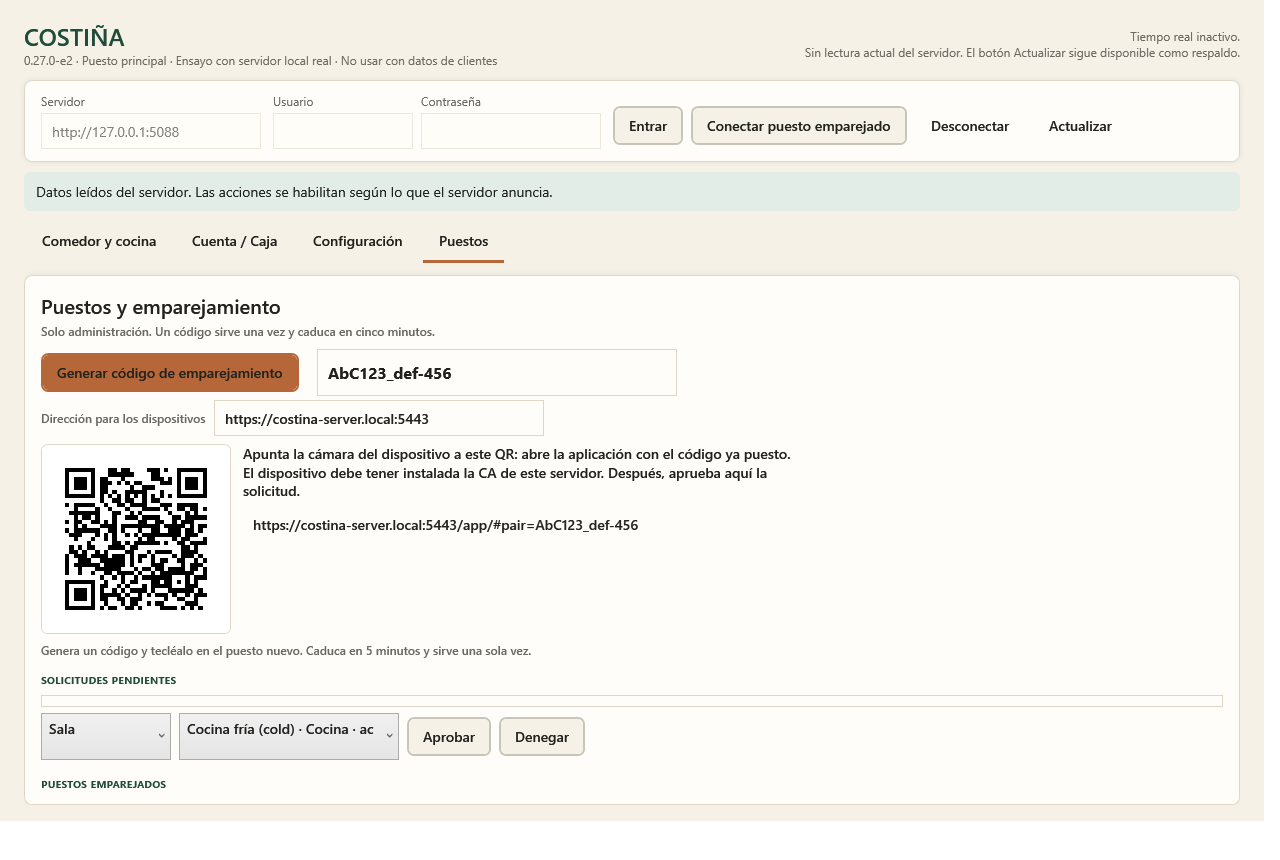
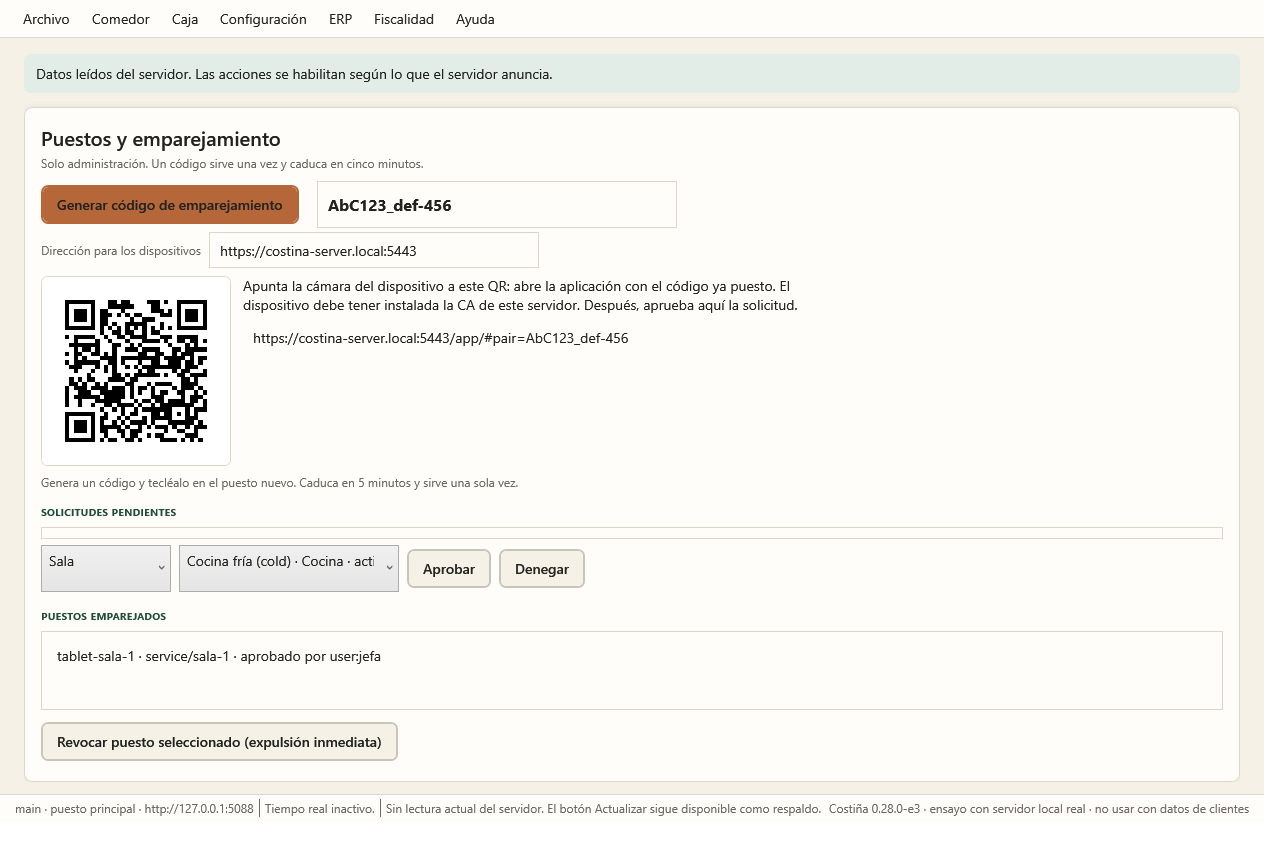
feat(desktop): barra de menus clasica (Archivo, Comedor, Caja, Configuracion, ERP, Fiscalidad, Ayuda), area de trabajo sin pestanas y barra de estado
Estructura definitiva del ERP de escritorio pedida por el promotor: el menu selecciona la vista del area de trabajo (el TabControl sigue como contenedor con plantilla de cabecera vacia); lo que aun no existe va deshabilitado con el corte en que llega; menus de rol solo con sesion de ese rol; F5 actualiza; Acerca de. Barra de estado con quien esta conectado (rol y servidor), tiempo real, hora de lectura y version. La tarjeta de entrada solo se muestra sin sesion. Cambiar la sesion refresca las propiedades derivadas. Checks del WPF: estructura del menu, ERP deshabilitado, menus ocultos sin sesion, cabeceras no pintadas, barra de estado; capturas actualizadas en docs/native/images/e2 (incluida la entrada).

diff --git a/dotnet/src/Costina.Desktop/MainWindow.xaml b/dotnet/src/Costina.Desktop/MainWindow.xaml
@@ -3,21 +3,63 @@
  Title="Costiña · Puesto principal" Width="1280" Height="860" MinWidth="1080" MinHeight="720" Background="{StaticResource Cream}" Closing="WindowClosing"
  FontFamily="Segoe UI Variable, Segoe UI" TextOptions.TextFormattingMode="Ideal" UseLayoutRounding="True">
 <Window.Resources><BooleanToVisibilityConverter x:Key="Bool2Vis"/><local:InvertedBool2Vis x:Key="NotBool2Vis"/></Window.Resources>
-<DockPanel Margin="24,20,24,16">
- <!-- Cabecera: identidad, version y conexion. -->
- <StackPanel DockPanel.Dock="Top">
-  <DockPanel Margin="0,0,0,12">
-   <StackPanel DockPanel.Dock="Right" VerticalAlignment="Center" HorizontalAlignment="Right">
-    <TextBlock Text="{Binding RealtimeState}" Style="{StaticResource Subtle}" TextAlignment="Right"/>
-    <TextBlock Text="{Binding ReadTime}" Style="{StaticResource Subtle}" TextAlignment="Right"/>
-   </StackPanel>
+<Window.InputBindings><KeyBinding Key="F5" Command="{Binding RefreshCommand}"/></Window.InputBindings>
+<DockPanel>
+ <!-- Barra de menus clasica de Windows: es la estructura DEFINITIVA del ERP. Lo que aun no existe va deshabilitado con su corte.
+      Cada entrada muestra una vista del area de trabajo (el TabControl de abajo, sin cabeceras). -->
+ <Menu x:Name="MainMenu" DockPanel.Dock="Top">
+  <MenuItem Header="_Archivo">
+   <MenuItem Header="Conectar puesto emparejado" Command="{Binding ConnectPairedCommand}"/>
+   <MenuItem Header="Actualizar" Command="{Binding RefreshCommand}" InputGestureText="F5"/>
+   <MenuItem Header="Desconectar" Command="{Binding DisconnectCommand}"/>
+   <Separator/>
+   <MenuItem Header="Salir" Click="ExitClick" InputGestureText="Alt+F4"/>
+  </MenuItem>
+  <MenuItem Header="_Comedor" x:Name="DiningMenu" IsEnabled="{Binding TabsEnabled}" Visibility="{Binding HasDining, Converter={StaticResource Bool2Vis}}">
+   <MenuItem Header="Comedor y cocina" Tag="ServiceTab" Click="ShowView"/>
+  </MenuItem>
+  <MenuItem Header="Ca_ja" x:Name="CheckoutMenu" IsEnabled="{Binding TabsEnabled}" Visibility="{Binding IsMain, Converter={StaticResource Bool2Vis}}">
+   <MenuItem Header="Cuenta / Caja" Tag="CheckoutTab" Click="ShowView"/>
+   <Separator/>
+   <MenuItem Header="Apertura y cierre de caja" IsEnabled="False" ToolTip="Llega en el Hito 7 (caja completa)" ToolTipService.ShowOnDisabled="True"/>
+   <MenuItem Header="Arqueo y turnos" IsEnabled="False" ToolTip="Llega en el Hito 7 (caja completa)" ToolTipService.ShowOnDisabled="True"/>
+  </MenuItem>
+  <MenuItem Header="C_onfiguración" x:Name="ConfigurationMenu" IsEnabled="{Binding TabsEnabled}" Visibility="{Binding IsMain, Converter={StaticResource Bool2Vis}}">
+   <MenuItem Header="Salas, mesas y estaciones" Tag="OrganizationTab" Click="ShowView"/>
+   <MenuItem Header="Puestos y emparejamiento" Tag="DevicesTab" Click="ShowView"/>
+   <Separator/>
+   <MenuItem Header="Usuarios y permisos" IsEnabled="False" ToolTip="Llega en E5 (Hito 6)" ToolTipService.ShowOnDisabled="True"/>
+   <MenuItem Header="Módulos de la instalación" IsEnabled="False" ToolTip="Llega en E5 (Hito 6)" ToolTipService.ShowOnDisabled="True"/>
+  </MenuItem>
+  <MenuItem Header="_ERP" x:Name="ErpMenu" IsEnabled="{Binding TabsEnabled}" Visibility="{Binding IsMain, Converter={StaticResource Bool2Vis}}">
+   <MenuItem Header="Catálogo y tarifas" IsEnabled="False" ToolTip="Llega en E3 (Hito 6)" ToolTipService.ShowOnDisabled="True"/>
+   <MenuItem Header="Menús y pases" IsEnabled="False" ToolTip="Llega en E4 (Hito 6)" ToolTipService.ShowOnDisabled="True"/>
+   <MenuItem Header="Informes" IsEnabled="False" ToolTip="Tras el Hito 7" ToolTipService.ShowOnDisabled="True"/>
+   <MenuItem Header="Stock, proveedores y compras" IsEnabled="False" ToolTip="Módulos posteriores" ToolTipService.ShowOnDisabled="True"/>
+  </MenuItem>
+  <MenuItem Header="_Fiscalidad" x:Name="FiscalMenu" IsEnabled="{Binding TabsEnabled}" Visibility="{Binding IsMain, Converter={StaticResource Bool2Vis}}">
+   <MenuItem Header="Series y facturas" IsEnabled="False" ToolTip="Llega en el Hito 8 (fiscal)" ToolTipService.ShowOnDisabled="True"/>
+   <MenuItem Header="VERI*FACTU" IsEnabled="False" ToolTip="Llega en el Hito 8 (fiscal)" ToolTipService.ShowOnDisabled="True"/>
+  </MenuItem>
+  <MenuItem Header="Ay_uda">
+   <MenuItem Header="Acerca de Costiña" Click="AboutClick"/>
+  </MenuItem>
+ </Menu>
+ <!-- Barra de estado: quien esta conectado y contra que servidor, tiempo real y hora de la ultima lectura autoritativa. -->
+ <StatusBar x:Name="MainStatusBar" DockPanel.Dock="Bottom">
+  <StatusBarItem><TextBlock Text="{Binding ConnectionText}" Style="{StaticResource Subtle}"/></StatusBarItem>
+  <Separator/>
+  <StatusBarItem><TextBlock Text="{Binding RealtimeState}" Style="{StaticResource Subtle}"/></StatusBarItem>
+  <Separator/>
+  <StatusBarItem><TextBlock Text="{Binding ReadTime}" Style="{StaticResource Subtle}"/></StatusBarItem>
+  <StatusBarItem HorizontalAlignment="Right"><TextBlock Text="Costiña 0.28.0-e3 · ensayo con servidor local real · no usar con datos de clientes" Style="{StaticResource Subtle}"/></StatusBarItem>
+ </StatusBar>
+ <StackPanel DockPanel.Dock="Top" Margin="24,16,24,0">
+  <!-- Conexion: solo mientras no hay sesion. Despues, todo va por el menu Archivo. -->
+  <Border Style="{StaticResource Card}" Margin="0,0,0,10" Padding="16,12" Visibility="{Binding Connected, Converter={StaticResource NotBool2Vis}}">
    <StackPanel>
     <TextBlock Text="COSTIÑA" Style="{StaticResource AppTitle}"/>
-    <TextBlock Text="0.28.0-e3 · Puesto principal · Ensayo con servidor local real · No usar con datos de clientes" Style="{StaticResource Subtle}"/>
-   </StackPanel>
-  </DockPanel>
-  <Border Style="{StaticResource Card}" Margin="0,0,0,10" Padding="16,12">
-   <StackPanel>
+    <TextBlock Text="Entra con tu usuario y contraseña, o conecta este puesto emparejado. La contraseña no se guarda en disco." Style="{StaticResource Subtle}" Margin="0,2,0,10"/>
     <WrapPanel VerticalAlignment="Bottom">
      <StackPanel Margin="0,0,12,0"><TextBlock Text="Servidor" Style="{StaticResource FieldLabel}"/><TextBox x:Name="Endpoint" Text="{Binding Endpoint, UpdateSourceTrigger=PropertyChanged}" IsEnabled="{Binding ConnectEnabled}" Width="220"/></StackPanel>
      <StackPanel Margin="0,0,8,0"><TextBlock Text="Usuario" Style="{StaticResource FieldLabel}"/><TextBox Text="{Binding Username, UpdateSourceTrigger=PropertyChanged}" IsEnabled="{Binding ConnectEnabled}" Width="140"/></StackPanel>
@@ -29,7 +71,7 @@
     </WrapPanel>
     <WrapPanel Margin="0,6,0,0" Visibility="{Binding ConnectEnabled, Converter={StaticResource Bool2Vis}}">
      <TextBlock Text="Emparejar este puesto:" VerticalAlignment="Center" Margin="0,0,8,0" Style="{StaticResource Subtle}"/>
-     <TextBox x:Name="PairCode" Width="330" ToolTip="Código de un solo uso generado por el administrador (pestaña Puestos del PC principal)"/>
+     <TextBox x:Name="PairCode" Width="330" ToolTip="Código de un solo uso generado por el administrador (Configuración › Puestos del PC principal)"/>
      <TextBox Text="{Binding PairName, UpdateSourceTrigger=PropertyChanged}" Width="150" Margin="8,0,8,0" ToolTip="Nombre de este puesto (p. ej. tablet-sala-1)"/>
      <Button Content="Solicitar emparejamiento" Command="{Binding PairDeviceCommand}" CommandParameter="{Binding Text, ElementName=PairCode}"/>
      <TextBlock Text="{Binding PairingStatus}" VerticalAlignment="Center" Margin="10,0,0,0" FontWeight="SemiBold"/>
@@ -49,10 +91,12 @@
    <TextBlock Text="{Binding BlockedText}" TextWrapping="Wrap" VerticalAlignment="Center"/>
   </DockPanel></Border>
  </StackPanel>
- <TabControl x:Name="Tabs" IsEnabled="{Binding TabsEnabled}" SelectionChanged="TabChanged">
+ <!-- Area de trabajo: una vista por entrada de menu. Las cabeceras de pestana no se pintan (plantilla vacia). -->
+ <TabControl x:Name="Tabs" IsEnabled="{Binding TabsEnabled}" SelectionChanged="TabChanged" Margin="24,0,24,12">
+  <TabControl.ItemContainerStyle><Style TargetType="TabItem"><Setter Property="Template"><Setter.Value><ControlTemplate TargetType="TabItem"/></Setter.Value></Setter></Style></TabControl.ItemContainerStyle>
   <!-- ═══════════════ Comedor y cocina (modulo Dining) ═══════════════ -->
   <TabItem Header="Comedor y cocina" x:Name="ServiceTab" Visibility="{Binding HasDining, Converter={StaticResource Bool2Vis}}">
-   <Grid Margin="0,12,0,0"><Grid.ColumnDefinitions><ColumnDefinition Width="270"/><ColumnDefinition Width="16"/><ColumnDefinition Width="*"/></Grid.ColumnDefinitions>
+   <Grid Margin="0,4,0,0"><Grid.ColumnDefinitions><ColumnDefinition Width="270"/><ColumnDefinition Width="16"/><ColumnDefinition Width="*"/></Grid.ColumnDefinitions>
     <Border Grid.Column="0" Style="{StaticResource Card}">
      <DockPanel>
       <StackPanel DockPanel.Dock="Top" Visibility="{Binding CanOpen, Converter={StaticResource Bool2Vis}}">
@@ -128,7 +172,7 @@
   </TabItem>
   <!-- ═══════════════ Cuenta / Caja (nucleo, solo main) ═══════════════ -->
   <TabItem Header="Cuenta / Caja" x:Name="CheckoutTab" Visibility="{Binding IsMain, Converter={StaticResource Bool2Vis}}">
-   <Border Style="{StaticResource Card}" Margin="0,12,0,0">
+   <Border Style="{StaticResource Card}" Margin="0,4,0,0">
     <DockPanel>
      <StackPanel DockPanel.Dock="Top">
       <TextBlock Text="Cuenta / Caja" Style="{StaticResource PanelTitle}"/>
@@ -161,7 +205,7 @@
   </TabItem>
   <!-- ═══════════════ Configuracion (nucleo, E2, solo main) ═══════════════ -->
   <TabItem Header="Configuración" x:Name="OrganizationTab" Visibility="{Binding IsMain, Converter={StaticResource Bool2Vis}}">
-   <Grid Margin="0,12,0,0"><Grid.RowDefinitions><RowDefinition Height="Auto"/><RowDefinition Height="*"/></Grid.RowDefinitions>
+   <Grid Margin="0,4,0,0"><Grid.RowDefinitions><RowDefinition Height="Auto"/><RowDefinition Height="*"/></Grid.RowDefinitions>
     <StackPanel Grid.Row="0" Margin="0,0,0,10">
      <TextBlock Text="Configuración del negocio" Style="{StaticResource PanelTitle}"/>
      <TextBlock Text="{Binding Organization.Summary}" Style="{StaticResource Subtle}" Margin="0,4,0,0"/>
@@ -232,7 +276,7 @@
   </TabItem>
   <!-- ═══════════════ Puestos (nucleo, solo main) ═══════════════ -->
   <TabItem Header="Puestos" x:Name="DevicesTab" Visibility="{Binding IsMain, Converter={StaticResource Bool2Vis}}">
-   <Border Style="{StaticResource Card}" Margin="0,12,0,0">
+   <Border Style="{StaticResource Card}" Margin="0,4,0,0">
     <DockPanel>
      <StackPanel DockPanel.Dock="Top">
       <TextBlock Text="Puestos y emparejamiento" Style="{StaticResource PanelTitle}"/>

diff --git a/dotnet/src/Costina.Desktop/Theme.xaml b/dotnet/src/Costina.Desktop/Theme.xaml
@@ -141,6 +141,18 @@
   <Setter Property="Background" Value="{StaticResource ForestSoft}"/><Setter Property="Foreground" Value="{StaticResource Forest}"/><Setter Property="FontWeight" Value="SemiBold"/>
   <Setter Property="Padding" Value="10,8"/><Setter Property="BorderBrush" Value="{StaticResource Line}"/><Setter Property="BorderThickness" Value="0,0,0,1"/>
  </Style>
+ <!-- Barra de menus y barra de estado clasicas (E2): fondo papel, linea inferior/superior, tipografia del tema. -->
+ <Style TargetType="Menu">
+  <Setter Property="Background" Value="{StaticResource Paper}"/><Setter Property="BorderBrush" Value="{StaticResource Line}"/><Setter Property="BorderThickness" Value="0,0,0,1"/>
+  <Setter Property="Padding" Value="12,2"/><Setter Property="FontSize" Value="14"/><Setter Property="Foreground" Value="{StaticResource Ink}"/>
+ </Style>
+ <Style TargetType="MenuItem">
+  <Setter Property="Padding" Value="10,6"/><Setter Property="FontSize" Value="14"/><Setter Property="Foreground" Value="{StaticResource Ink}"/>
+ </Style>
+ <Style TargetType="StatusBar">
+  <Setter Property="Background" Value="{StaticResource Paper}"/><Setter Property="BorderBrush" Value="{StaticResource Line}"/><Setter Property="BorderThickness" Value="0,1,0,0"/>
+  <Setter Property="Padding" Value="12,2"/><Setter Property="FontSize" Value="12"/>
+ </Style>
  <Style TargetType="TabControl">
   <Setter Property="Background" Value="Transparent"/><Setter Property="BorderThickness" Value="0"/><Setter Property="Padding" Value="0"/>
  </Style>

diff --git a/dotnet/tests/Costina.DesktopChecks/Program.cs b/dotnet/tests/Costina.DesktopChecks/Program.cs
@@ -15,6 +15,13 @@ internal static class Program
         if(!((Button)window.FindName("ConnectButton")).IsEnabled) throw new Exception("Connection button must be available.");
         if(((TabItem)window.FindName("CheckoutTab")).Visibility!=Visibility.Collapsed) throw new Exception("Checkout visible without authenticated role.");
         if(((TabItem)window.FindName("OrganizationTab")).Visibility!=Visibility.Collapsed) throw new Exception("Configuration visible without authenticated role.");   // E2
+        // E2: barra de menus clasica. Estructura definitiva; lo que no existe va deshabilitado; sin cabeceras de pestana.
+        var menu=(Menu)window.FindName("MainMenu");
+        var headers=menu.Items.OfType<MenuItem>().Select(m=>m.Header?.ToString()?.Replace("_","")).ToArray();
+        if(!headers.SequenceEqual(new[]{"Archivo","Comedor","Caja","Configuración","ERP","Fiscalidad","Ayuda"})) throw new Exception("Menu bar structure: "+string.Join(",",headers));
+        if(((MenuItem)window.FindName("ErpMenu")).Items.OfType<MenuItem>().Any(m=>m.IsEnabled)) throw new Exception("ERP entries that do not exist yet must be disabled.");
+        if(((MenuItem)window.FindName("ConfigurationMenu")).Visibility!=Visibility.Collapsed||((MenuItem)window.FindName("DiningMenu")).Visibility!=Visibility.Collapsed) throw new Exception("Role menus are hidden without a session.");
+        if(((TabItem)window.FindName("ServiceTab")).ActualHeight!=0) throw new Exception("Tab headers must not be painted: the menu selects the view.");
         if(((TabControl)window.FindName("Tabs")).IsEnabled) throw new Exception("Unauthenticated operations enabled.");
         // D3.1: la habilitacion es un mapeo puro de las affordances del servidor, sin reglas locales.
         // D3.4 (F01): ademas, solo hay contexto accionable cuando la fila seleccionada coincide con la entidad leida.
@@ -139,6 +146,9 @@ internal static class Program
         window.Shell.Session=new("service","t","c","l",["open"],"inst-checks","0.7.0-d3.4",Modules:["dining"]);
         if(organization.SaveZoneCommand.CanExecute(null)||organization.StartStationCommand.CanExecute(null)) throw new Exception("Only the main desk edits the organization.");
         window.Shell.Session=new("main","t","c","l",["open"],"inst-checks","0.7.0-d3.4",Modules:["dining"]);
+        window.UpdateLayout();
+        if(((MenuItem)window.FindName("ConfigurationMenu")).Visibility!=Visibility.Visible||((MenuItem)window.FindName("FiscalMenu")).Visibility!=Visibility.Visible) throw new Exception("The main desk sees every menu.");
+        if(!window.Shell.ConnectionText.Contains("puesto principal")) throw new Exception("The status bar states who is connected.");
         if(organization.SelectedZone?.Id!="sala"||organization.ZoneName!="Sala"||organization.Tables.Length!=3) throw new Exception("Rendering must select the first zone and fill its form and tables.");
         if(!organization.SaveZoneCommand.CanExecute(null)||!organization.ToggleZoneCommand.CanExecute(null)) throw new Exception("A selected zone is editable by the main desk.");
         organization.SelectedTable=organization.Tables[2];

diff --git a/dotnet/src/Costina.Desktop/ViewModels/ShellViewModel.cs b/dotnet/src/Costina.Desktop/ViewModels/ShellViewModel.cs
@@ -35,6 +35,8 @@ public sealed partial class ShellViewModel : ObservableObject
 
     public ShellViewModel() { Service = new(this); Checkout = new(this); Devices = new(this); Organization = new(this); }
 
+    // Cambiar la sesion (conectar, desconectar, otro rol) refresca todas las propiedades derivadas que enlazan menus y vistas.
+    partial void OnSessionChanged(SessionInfo? value) => Sync();
     public bool Connected => Session is not null;
     public bool IsMain => Session?.Role == "main";
     // ADR-012: la pestana de comedor y cocina existe solo si el modulo Dining esta activo en la instalacion.
@@ -45,6 +47,8 @@ public sealed partial class ShellViewModel : ObservableObject
     public bool HasBlocked => Blocked is not null;
     public bool CanOpen => Session?.Actions?.Contains("open") == true;
     public bool TabsEnabled => Connected && !Busy;
+    // Barra de estado: quien esta conectado, con que rol y contra que servidor (nunca credenciales).
+    public string ConnectionText => Session is null ? "Sin conexión" : $"{Session.Actor ?? Session.Role} · {Session.Role switch { "main" => "puesto principal", "service" => "sala", "kitchen" => "cocina", var r => r }} · {Endpoint}" + (Session.Demo ? " · DEMO" : "");
     // Perfil de pantalla (UX, no autorizacion): el servidor sigue decidiendo cada accion.
     public bool IsKitchen => Session?.Role is "main" or "kitchen";
     public string PendingText => Pending is null ? "" :
@@ -63,7 +67,7 @@ public sealed partial class ShellViewModel : ObservableObject
         OnPropertyChanged(nameof(Writable)); OnPropertyChanged(nameof(HasPending));
         OnPropertyChanged(nameof(HasBlocked)); OnPropertyChanged(nameof(BlockedText));
         OnPropertyChanged(nameof(CanOpen)); OnPropertyChanged(nameof(PendingText));
-        OnPropertyChanged(nameof(ConnectEnabled)); OnPropertyChanged(nameof(TabsEnabled));
+        OnPropertyChanged(nameof(ConnectEnabled)); OnPropertyChanged(nameof(TabsEnabled)); OnPropertyChanged(nameof(ConnectionText));
         OnPropertyChanged(nameof(IsKitchen)); OnPropertyChanged(nameof(HasPairedDevice));
         ConnectPairedCommand.NotifyCanExecuteChanged(); PairDeviceCommand.NotifyCanExecuteChanged();
         DisconnectCommand.NotifyCanExecuteChanged();

diff --git a/dotnet/src/Costina.Desktop/MainWindow.xaml.cs b/dotnet/src/Costina.Desktop/MainWindow.xaml.cs
@@ -23,7 +23,28 @@ public partial class MainWindow : Window
     // Los checks del WPF componen la ventana con datos leidos (sin servidor) para renderizarla y capturarla.
     public ShellViewModel Shell => shell;
 
-    public MainWindow() { InitializeComponent(); DataContext = shell; }
+    public MainWindow()
+    {
+        InitializeComponent(); DataContext = shell;
+        // Al conectar (o cambiar de rol) el area de trabajo muestra la primera vista que ese rol puede ver.
+        shell.PropertyChanged += (_, e) => { if (e.PropertyName == nameof(ShellViewModel.Session)) SelectFirstVisibleView(); };
+    }
+
+    internal void SelectFirstVisibleView()
+    {
+        if (Tabs.SelectedItem is TabItem current && current.Visibility == Visibility.Visible) return;
+        Tabs.SelectedItem = Tabs.Items.OfType<TabItem>().FirstOrDefault(t => t.Visibility == Visibility.Visible);
+    }
+
+    // Menu: cada entrada selecciona una vista del area de trabajo por su nombre (Tag).
+    private void ShowView(object sender, RoutedEventArgs e)
+    {
+        if (sender is MenuItem { Tag: string name } && FindName(name) is TabItem view) Tabs.SelectedItem = view;
+    }
+    private void ExitClick(object sender, RoutedEventArgs e) => Close();
+    private void AboutClick(object sender, RoutedEventArgs e) => MessageBox.Show(this,
+        $"Costiña · puesto principal\nVersión {typeof(MainWindow).Assembly.GetName().Version?.ToString(3)}\n\nServidor: {shell.Endpoint}\n{shell.ConnectionText}",
+        "Acerca de Costiña", MessageBoxButton.OK, MessageBoxImage.Information);
 
     private async void ConnectClick(object sender, RoutedEventArgs e)
     {

diff --git a/docs/native/E2-organization.md b/docs/native/E2-organization.md
@@ -10,11 +10,11 @@ Fecha: 2026-09-22. Rama `feat/e2-organization` sobre E1b (`feat/e1b-schema-per-m
 
 **API** (núcleo, solo `main`): `GET /api/native/v1/organization` (salas con sus mesas, activas e inactivas marcadas, y estaciones) y `POST /api/native/v1/organization/commands/{action}` con `zone|table|station` × `create|update|deactivate|reactivate`, cuerpo `{id, name, capacity, zoneId, sort, kind}`; misma tubería (idempotencia, auditoría `organization.*`, outbox). Sin versión esperada: datos maestros, última edición gana; el cliente relee tras cada comando. `GET /configuration.tables` sigue para todos los roles con las mesas **activas** y añade `zoneId` y `zoneName` (campos anteriores intactos).
 
-**Puesto principal (WPF)**: pestaña **Configuración** con "Salas", "Mesas de la sala" y "Estaciones" en patrón lista + ficha (código fijo, nombre, aforo, orden, sala o tipo; "Guardar", "Desactivar / reactivar"; estados vacíos explicados). En **Puestos**, la estación se elige de las activas. **Tema visual** (`Theme.xaml`, único diccionario de la aplicación): verde bosque, crema y cobre; rojo solo para alergias y acciones irreversibles; ámbar para avisos; tipografía Segoe UI Variable; tarjetas, chips de estado con texto, botones principal/secundario/peligro/fantasma; aplicado también a Comedor y cocina, Cuenta / Caja y Puestos. Los avisos de alergia siguen con texto siempre.
+**Puesto principal (WPF)**: estructura clásica de Windows pedida por el promotor: **barra de menús** arriba (Archivo · Comedor · Caja · Configuración · ERP · Fiscalidad · Ayuda), área de trabajo debajo (una vista por entrada de menú; ya no hay pestañas) y **barra de estado** abajo (quién está conectado y con qué rol, tiempo real, hora de la última lectura, versión). Los menús de rol solo aparecen con sesión de ese rol; lo que aún no existe está en el menú **deshabilitado con el corte en que llega** (E3 catálogo y tarifas, E4 menús y pases, E5 usuarios y módulos, Hito 7 caja, Hito 8 fiscal): la estructura del menú es la definitiva. Vista **Configuración › Salas, mesas y estaciones** en patrón lista + ficha (código fijo, nombre, aforo, orden, sala o tipo; "Guardar", "Desactivar / reactivar"; estados vacíos explicados). En **Puestos**, la estación se elige de las activas. **Tema visual** (`Theme.xaml`, único diccionario de la aplicación): verde bosque, crema y cobre; rojo solo para alergias y acciones irreversibles; ámbar para avisos; tipografía Segoe UI Variable; tarjetas, chips de estado con texto, botones principal/secundario/peligro/fantasma; aplicado también a Comedor y cocina, Cuenta / Caja y Puestos. Los avisos de alergia siguen con texto siempre.
 
 **Cliente (`Costina.Client`)**: `OrganizationDto`, `ZoneDto`, `TableDto`, `StationDto`; `TableChoice` con sala opcional. Una respuesta de comando se reconoce también por el **eco de su `Idempotency-Key`** (además de `version`/`serviceId`): mismo invariante D3.4, generalizado a comandos sin versión.
 
-Capturas (compuestas por los checks del WPF con datos leídos, sin servidor): [configuración](images/e2/configuration.png) · [comedor y cocina](images/e2/service.png) · [cuenta / caja](images/e2/checkout.png) · [puestos](images/e2/devices.png).
+Capturas (compuestas por los checks del WPF con datos leídos, sin servidor): [entrada](images/e2/login.png) · [configuración](images/e2/configuration.png) · [comedor y cocina](images/e2/service.png) · [cuenta / caja](images/e2/checkout.png) · [puestos](images/e2/devices.png).
 
 ## Qué NO cambia
 
@@ -26,7 +26,7 @@ Dominio del módulo Dining, PWA (usa `/configuration` como antes; los campos nue
 
 ## Guion de prueba manual
 
-Instalación demo, puesto principal como `main`. 1) Pestaña **Configuración**: aparece la sala "Sala" con M1–M8 y las estaciones pase, cold, hot y sala-1. 2) "＋ Sala" → `terraza`, "Terraza" → Guardar: aparece en la lista; "＋ Mesa" en Terraza → `T1`, aforo 4 → Guardar. 3) En Comedor y cocina, el desplegable de mesas muestra "Terraza · T1". 4) Abrir T1 con el menú de ensayo; volver a Configuración y "Desactivar" T1 → el servidor lo rechaza con texto (mesa en uso). Liberar la mesa y repetir: se desactiva y desaparece del desplegable; "Reactivar" la devuelve. 5) Estación `pase`: "Desactivar / reactivar" deshabilitado. Crear `barra` (Barra); en Puestos, aprobar una solicitud eligiendo `barra`. 6) Actualizar una instalación anterior con el instalador nuevo: copia + `upgrade`; sus mesas aparecen en Configuración dentro de "Sala". 7) Aspecto: las cuatro pestañas con el tema (fondo crema, cabecera verde, botón principal cobre).
+Instalación demo, puesto principal como `main`. 0) Al entrar, la barra de menús muestra Archivo, Comedor, Caja, Configuración, ERP, Fiscalidad y Ayuda; en ERP y Fiscalidad todo está deshabilitado y el tooltip dice en qué corte llega; con un usuario de sala solo se ven Archivo, Comedor y Ayuda; la barra de estado dice quién está conectado. 1) **Configuración › Salas, mesas y estaciones**: aparece la sala "Sala" con M1–M8 y las estaciones pase, cold, hot y sala-1. 2) "＋ Sala" → `terraza`, "Terraza" → Guardar: aparece en la lista; "＋ Mesa" en Terraza → `T1`, aforo 4 → Guardar. 3) En Comedor y cocina, el desplegable de mesas muestra "Terraza · T1". 4) Abrir T1 con el menú de ensayo; volver a Configuración y "Desactivar" T1 → el servidor lo rechaza con texto (mesa en uso). Liberar la mesa y repetir: se desactiva y desaparece del desplegable; "Reactivar" la devuelve. 5) Estación `pase`: "Desactivar / reactivar" deshabilitado. Crear `barra` (Barra); en Puestos, aprobar una solicitud eligiendo `barra`. 6) Actualizar una instalación anterior con el instalador nuevo: copia + `upgrade`; sus mesas aparecen en Configuración dentro de "Sala". 7) Aspecto: las cuatro pestañas con el tema (fondo crema, cabecera verde, botón principal cobre).
 
 ## Límites
 
